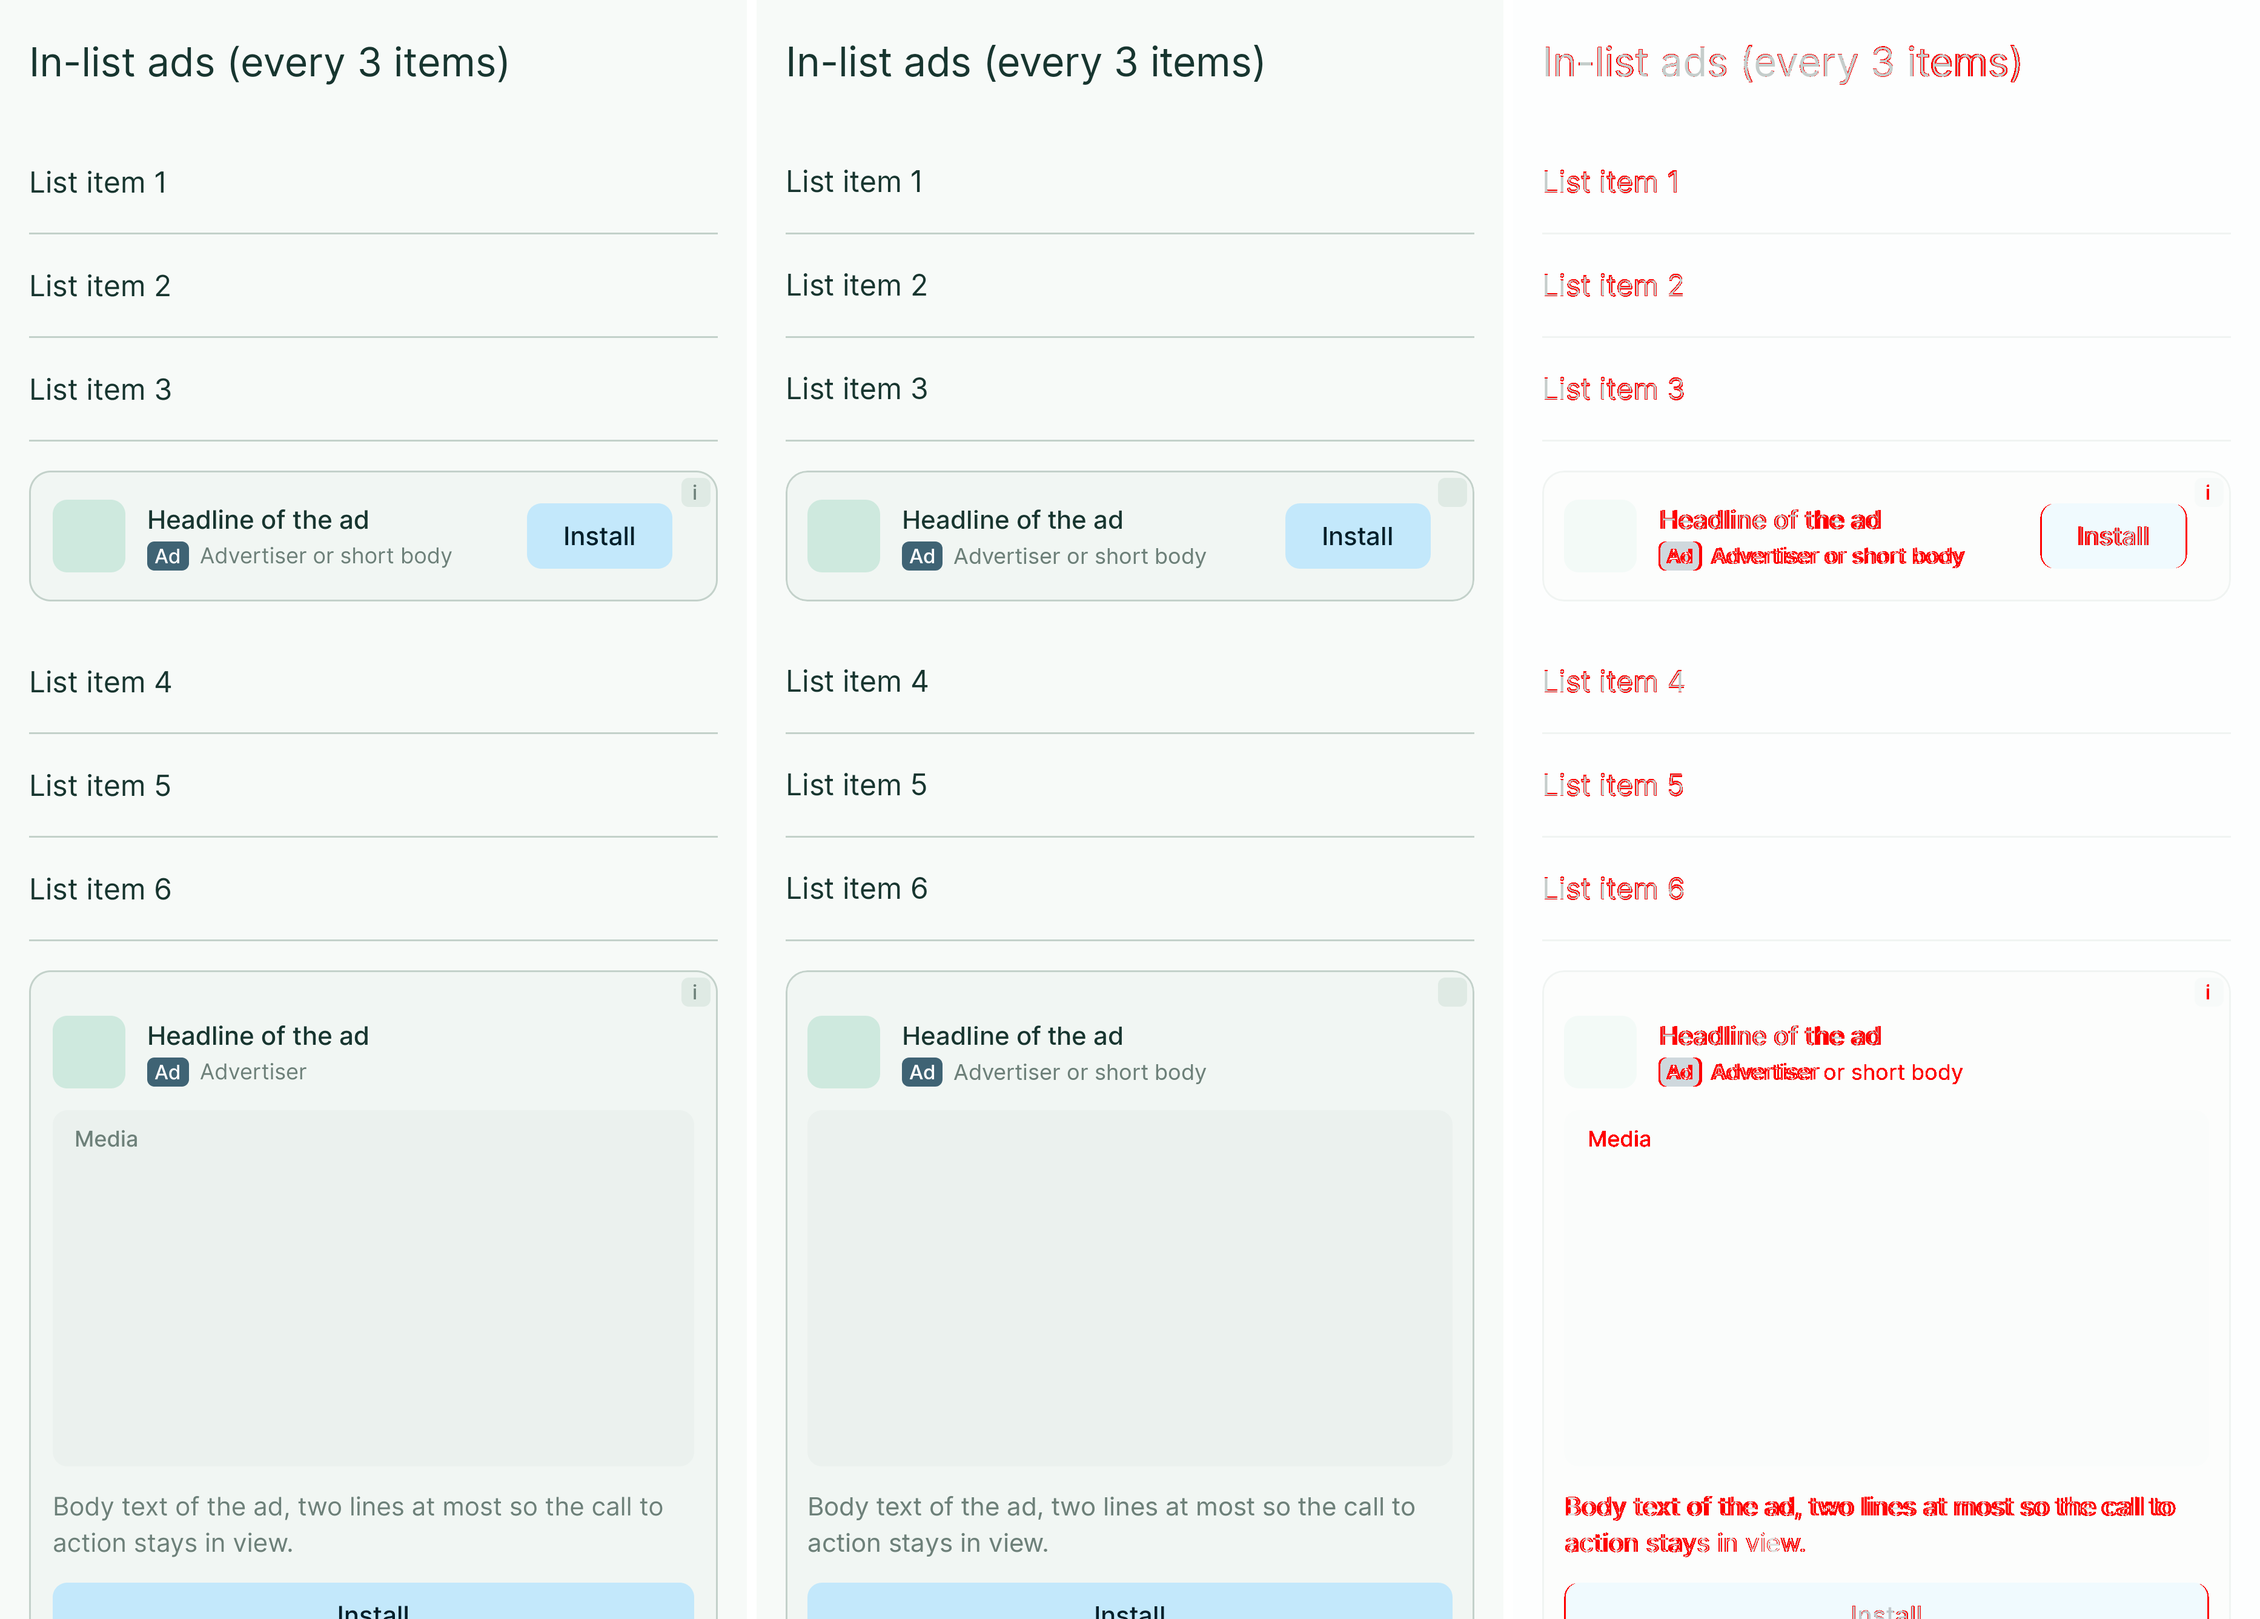
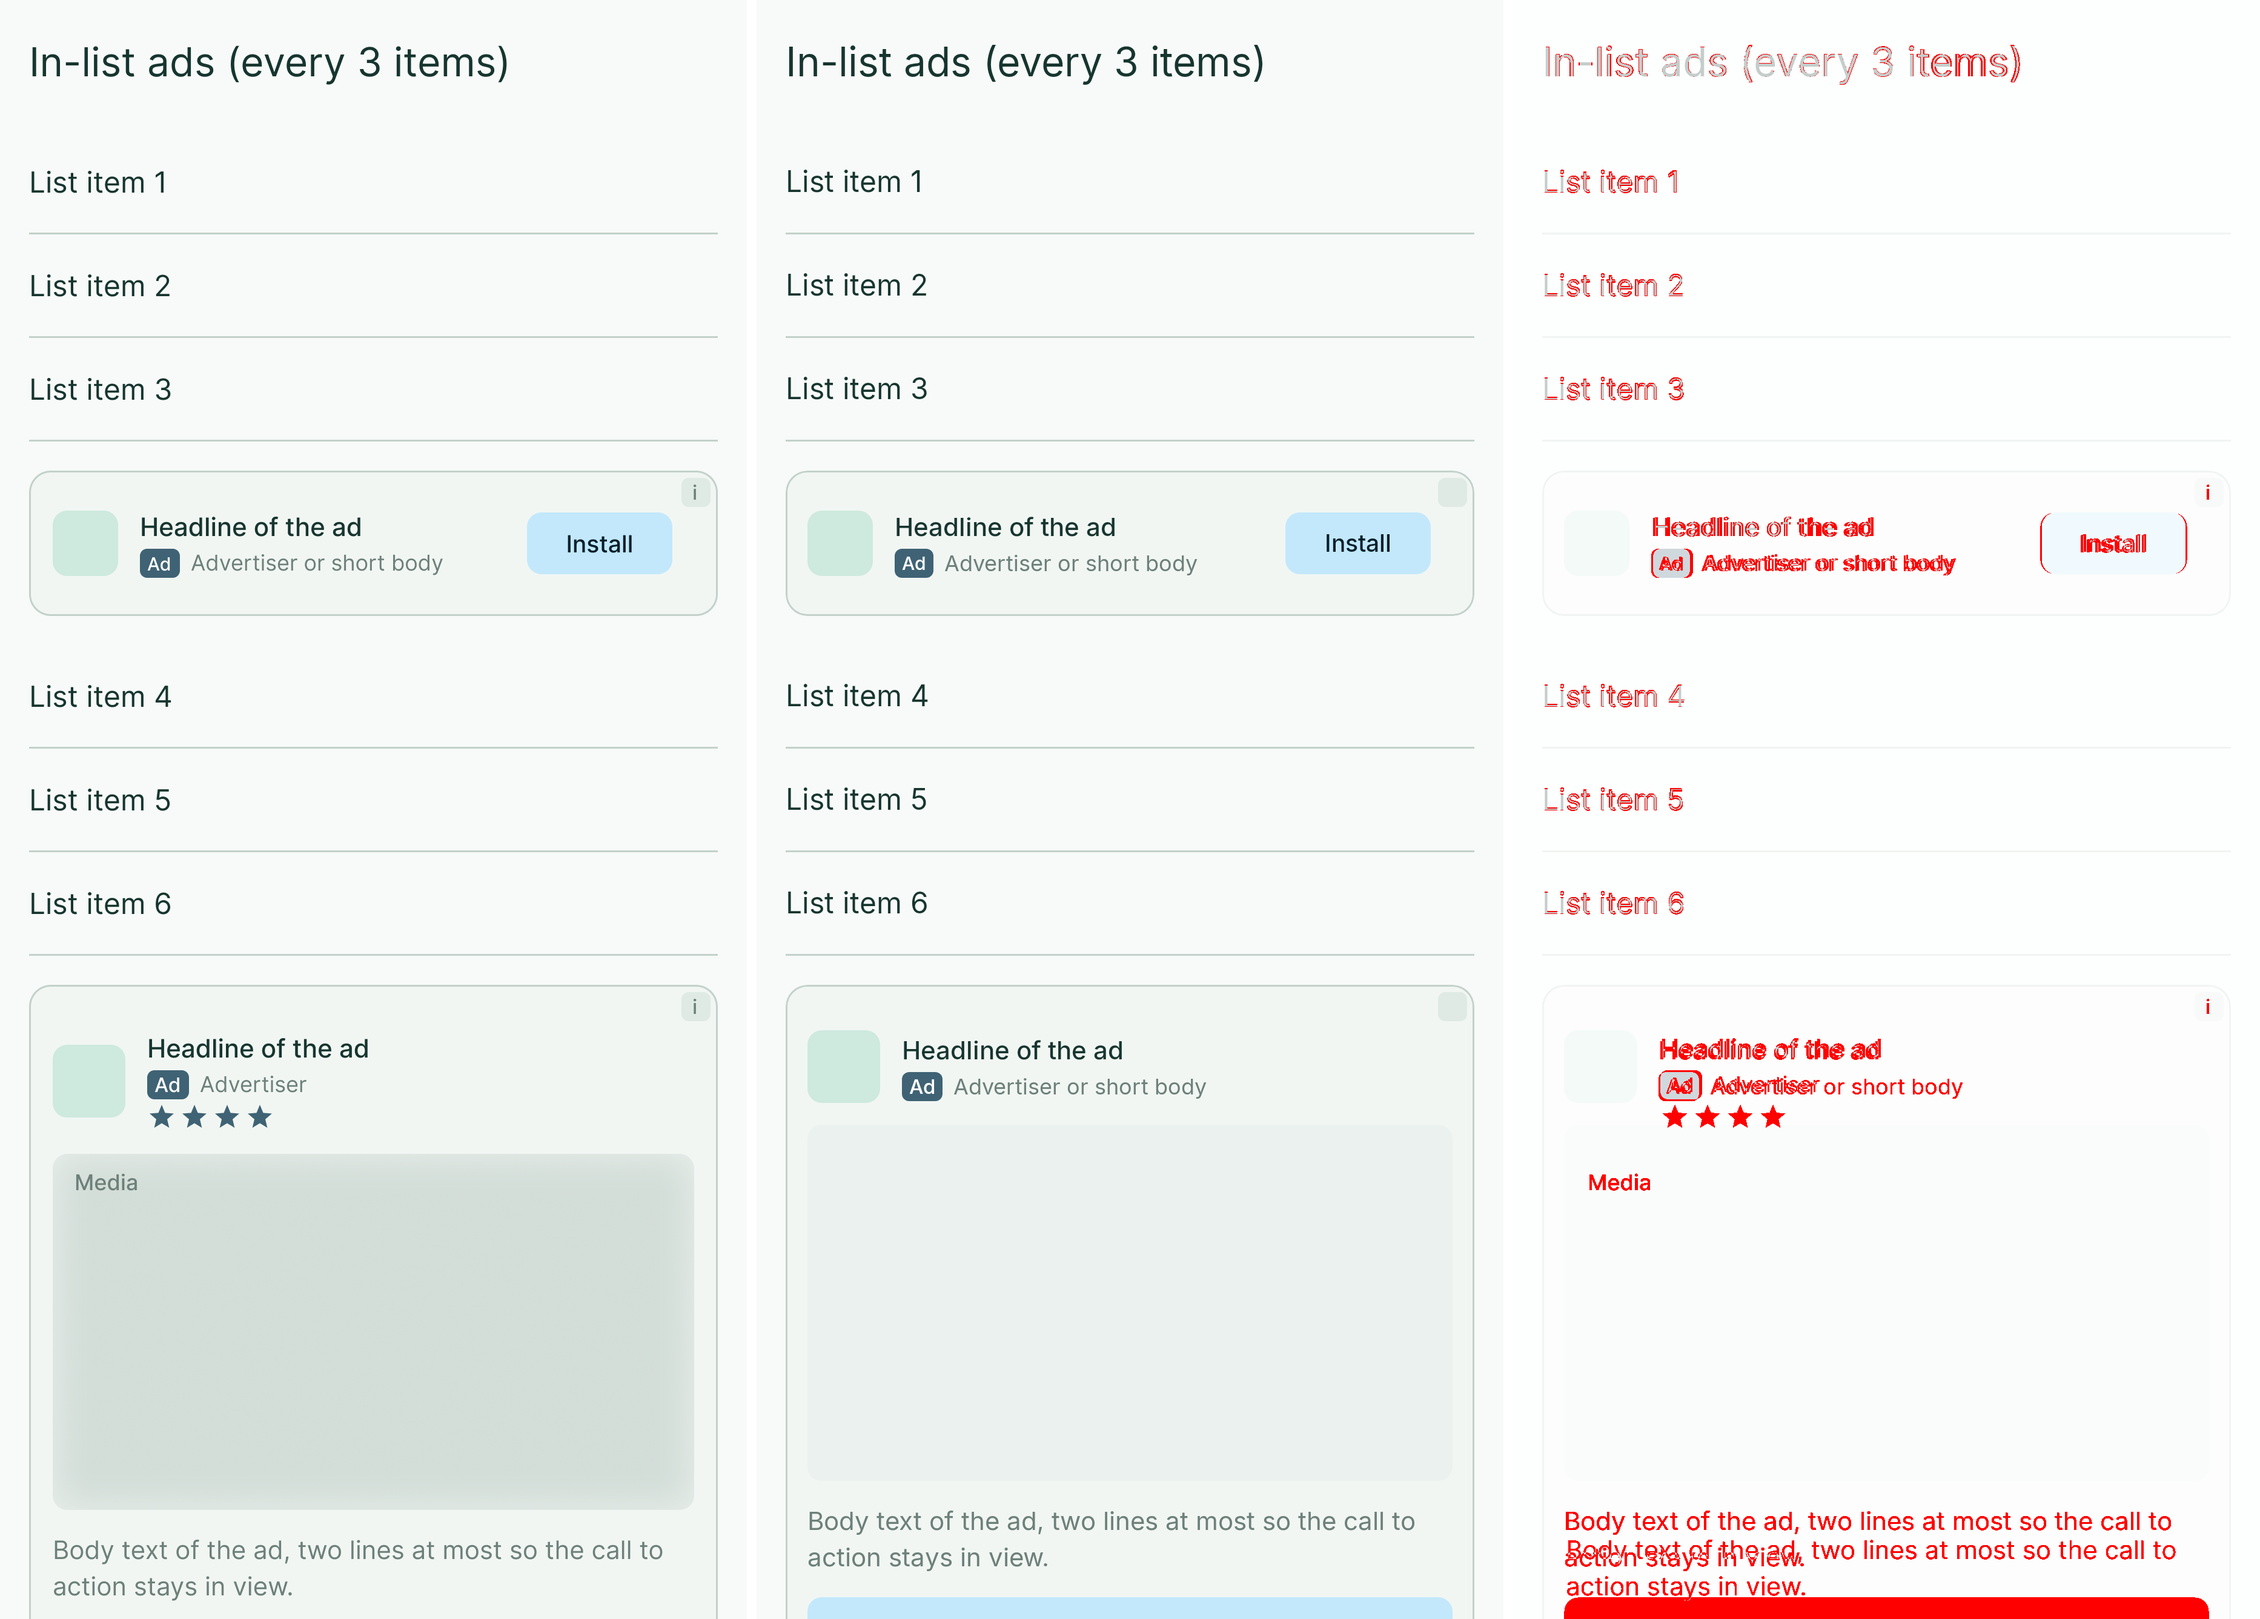
docs(T-027): ads-guide và README thiết kế theo native 80 dp, ảnh so sánh thiết kế
Claude-Session: https://claude.ai/code/session_01FWA9m53edGPiNrXsxrFqaS

diff --git a/docs/features/ads/design/README.md b/docs/features/ads/design/README.md
@@ -67,16 +67,16 @@ Chữ của màn hình xem thử chỉ ở staging, tiếng Anh, vẫn đặt tr
 | Phần tử trên thiết kế | Thành phần trong code | Màu (vai trò) | Kiểu chữ | Khoảng cách |
 | --- | --- | --- | --- | --- |
 | Khung native small, medium, thu gọn | composable native của `:core:ads` (T-010) | nền `surfaceContainerLow`, viền 1 dp `outlineVariant` | | bo `MaterialTheme.shapes.medium` (12 dp); lề 12 dp |
-| Nhãn "Ad" | trong composable native | nền `tertiary`, chữ `onTertiary` | `labelSmall` | bo 4 dp, lề ngang 4 dp |
-| Tiêu đề quảng cáo | asset headline | `onSurface` | `titleSmall` (small, medium), `titleMedium` (toàn màn hình) | |
+| Nhãn "Ad" | trong composable native, đầu dòng mô tả dưới tiêu đề | nền `tertiary`, chữ `onTertiary` | `labelSmall` (small: cỡ 10 sp) | bo 4 dp, lề ngang 4 dp |
+| Tiêu đề quảng cáo | asset headline | `onSurface` | `titleSmall` (small, medium, đầy đủ), `titleMedium` (toàn màn hình) | |
 | Nhà quảng cáo, mô tả | asset advertiser, body | `onSurfaceVariant` | `bodySmall`, `bodyMedium` | |
-| CTA quảng cáo | asset call to action | nền `tertiaryContainer`, chữ `onTertiaryContainer` | `labelLarge` | cao 36 dp (48 dp ở toàn màn hình), bo 8 dp |
-| Icon quảng cáo | asset icon | | | 40 dp (48 dp ở toàn màn hình), bo 8 dp |
-| Media | `MediaView` | nền chờ `surfaceContainer` | | ít nhất 120 x 120 dp; medium cao 196 dp, thu gọn mở 160 dp |
+| CTA quảng cáo | asset call to action | nền `tertiaryContainer`, chữ `onTertiaryContainer` | `labelLarge` (small: cỡ 13 sp) | cao 34 dp ở small, 36 dp ở medium và đầy đủ, 52 dp ở toàn màn hình; bo 8 dp |
+| Icon quảng cáo | asset icon | | | 36 dp ở small, 40 dp ở medium và đầy đủ, 48 dp ở toàn màn hình; bo 8 dp |
+| Media | `MediaView` | nền chờ `surfaceContainer` | | ít nhất 120 x 120 dp; medium cao 196 dp, đầy đủ 200 dp, thu gọn mở 160 dp |
 | AdChoices | do SDK vẽ, góc trên phải | | | không đè, không vẽ lại |
 | Nút thu gọn | trong composable thu gọn | icon `onSurface` | | 48 dp, góc trên trái |
-| Nút đóng toàn màn hình | trong `NativeFullScreenAdScreen` | nền `surfaceContainerHigh`, icon `onSurface` | | 48 dp tròn, góc trên trái |
-| Trạng thái đang tải | trong composable native | khối `surfaceContainerHighest` | | giữ đúng chiều cao của quảng cáo (small 72 dp, medium 386 dp) |
+| Nút đóng toàn màn hình | trong `NativeFullScreenAdScreen` | nền `surfaceContainerHigh`, icon `onSurface` | | vẽ 36 dp tròn tại (16, 24), vùng chạm 48 dp do Compose tự nới, góc trên trái |
+| Trạng thái đang tải | trong composable native | khối `surfaceContainerHighest` | | giữ đúng chiều cao của quảng cáo (small 80 dp, medium 386 dp, đầy đủ 418 dp) |
 | Nút của app | `PrimaryButton` | `primary`, `onPrimary` | `labelLarge` đậm 600 | |
 
 - **Giá trị "ngoài hệ thống" trong `context/`:** khoảng cách 2, 6 và 12 dp bên trong quảng cáo (giữa tiêu đề và dòng nhà quảng cáo, giữa nhãn "Ad" và chữ, lề trong khung). Plan T-010 quyết: giữ làm hằng số riêng của composable native trong `:core:ads` (kích thước của một component, như `MinHeight` của `PrimaryButton`), không thêm token.
@@ -127,3 +127,18 @@ Màn hình xem thử (T-014, 2026-10-23). Ảnh chuẩn ở `app/src/test/screen
 | `AdGalleryScreen_collapsible-collapsed_light` | 0.7% | Trùng thiết kế, khác ở chữ "i" của ô AdChoices giả |
 
 Nhận xét của rà soát độc lập (RUN-20261024-01): chữ, thứ tự và vai trò màu (nút toàn màn hình `primary`, nút chuyển trang viền, bản tối) trùng thiết kế; chỉ khác ở hàng nút chuyển trang đã duyệt và quảng cáo giả; vị trí lệch nhiều nhất khoảng 1 px. Không có điểm chặn.
+
+Native theo kích thước AdsKit (T-027, 2026-10-26), so với thiết kế vẽ lại (T-035). Chạy thẳng `scripts/design-compare/DesignCompare.java` cho từng module (`core/ads`, `feature/sample`, `app`), chép ảnh so sánh vào `review/`; `review/summary.md` không đổi.
+
+| Màn hình | Điểm ảnh khác | Nhận xét |
+| --- | --- | --- |
+| `SampleScreen_ready_light` | 1.3% | Khe đáy 80 dp, icon 36, CTA 34 dp, nhãn "Ad" đầu dòng mô tả trùng thiết kế. Khác: nút "Tap" thấp hơn khoảng 2 dp (không thuộc task này), ô AdChoices giả không có chữ "i" |
+| `SampleScreen_ready_dark` | 1.3% | Như bản sáng |
+| `SampleScreen_ad-loading_light` | 0.9% | Khung chờ 80 dp, khối CTA 80 x 34 dp trùng thiết kế |
+| `NativeFullScreenAdScreen_default_light` | 0.5% | Nút đóng 36 dp tại (16, 24), media từ y = 76, icon 48, CTA 52 dp trùng thiết kế; khác ở chữ "i" của AdChoices giả |
+| `NativeFullScreenAdScreen_default_dark` | 0.5% | Như bản sáng |
+| `AdGalleryScreen_default_light` | 14.7% | Native small trùng thiết kế. Lệch dự kiến: thiết kế vẽ medium mới (cao 410 dp, hàng sao, nền mờ sau media, CTA 44 dp), code giữ medium 386 dp (plan T-027, Q3; T-028 đổi), nên mọi thứ dưới thẻ medium lệch khoảng 24 dp. Hàng nút "In-list ads", "Collapsible ad" ngoài thiết kế như T-014 |
+| `AdGalleryScreen_default_dark` | 14.5% | Như bản sáng |
+| `AdGalleryScreen_inlist_light` | 3.1% | Dòng native small 80 dp (cả dòng 112 dp) trùng thiết kế; phần lệch ở thẻ medium phía dưới như trên |
+
+`AdGalleryScreen_collapsible-collapsed_light` cũng đổi (dạng thu gọn 80 dp) nhưng là ảnh thiết kế của T-030: ảnh so sánh và dòng ở bảng trên chưa ghi lại ở task này.
